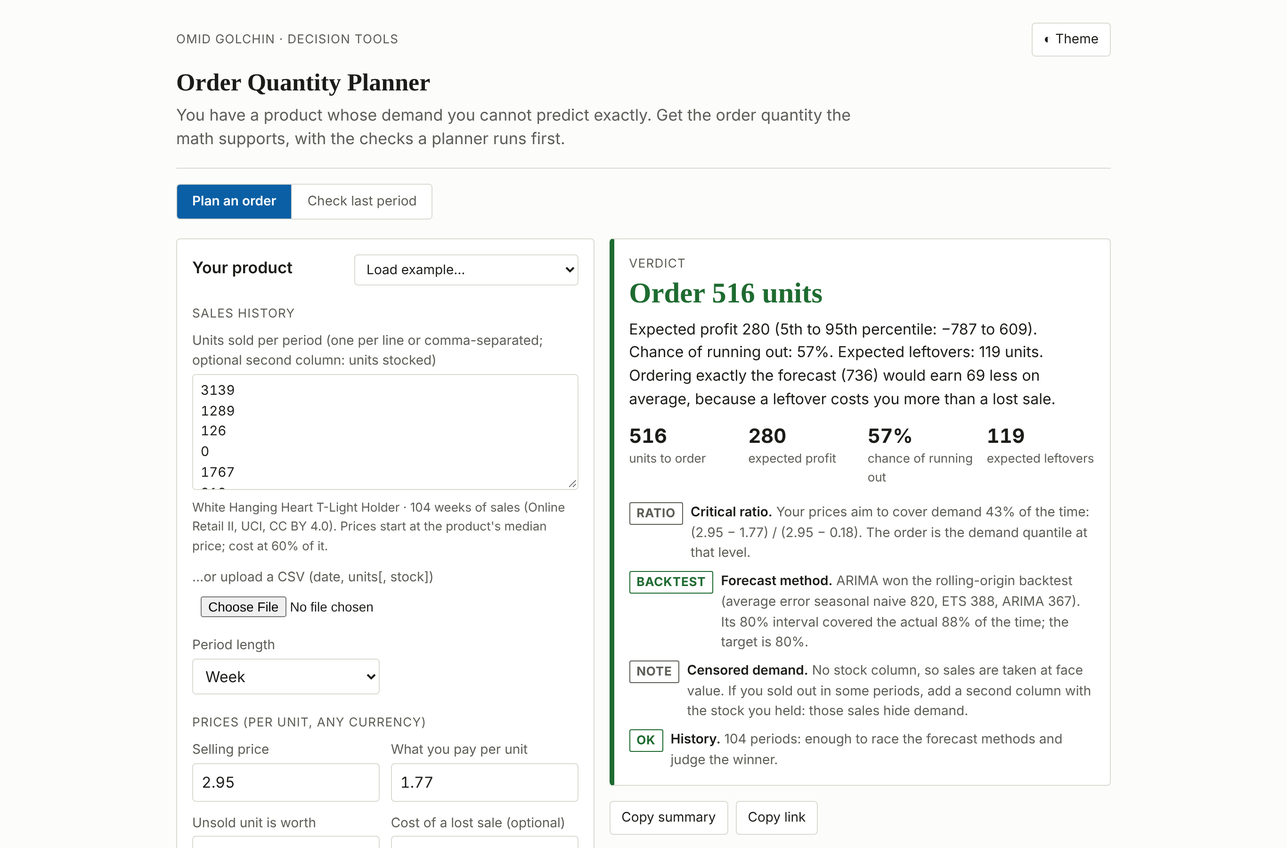
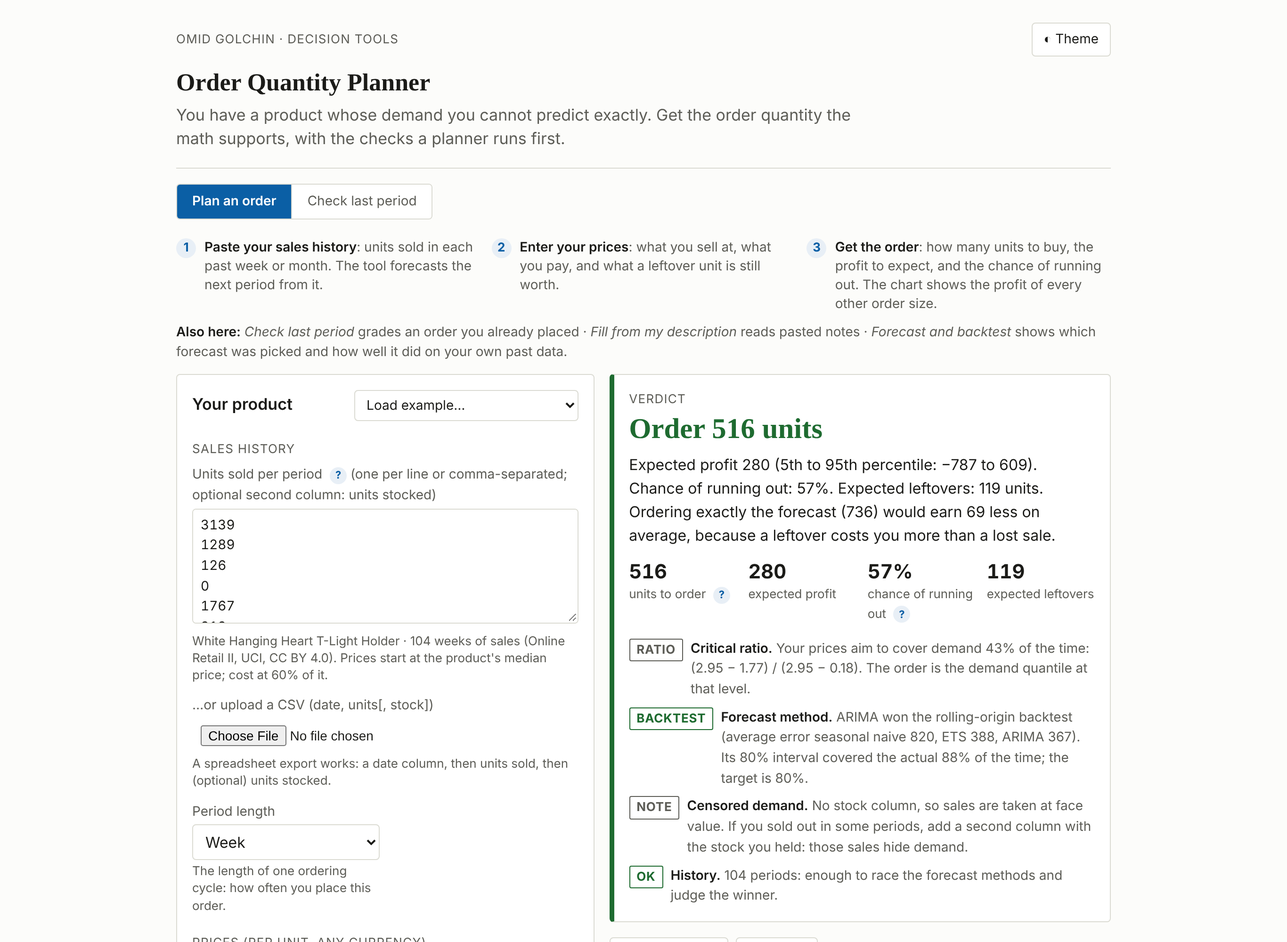
Explain every input and result; shared kit v3
Each mode now opens with a three-step guide, every input has a hint saying what the number is and why it matters, and technical terms in inputs and results have a ? that opens a plain-language explanation. Kit v3: explanations, arrow-key tabs, aligned input columns, slanted category labels on crowded charts, one shared list of tools in the footer. README, hero GIF and screenshots match the page.

Changed region(s): [[0.1245, 0.0311, 0.84, 1.0], [0.8089, 0.0311, 0.8712, 0.0622]]

diff --git a/docs/tool-common.js b/docs/tool-common.js
@@ -1,4 +1,4 @@
-/* omid-tools-kit / tool-common.js: helpers shared by every tool (v2).
+/* omid-tools-kit / tool-common.js: helpers shared by every tool (v3).
  *
  *   Tool.readParams(defaults)      inputs from the URL query, typed like defaults
  *   Tool.writeParams(obj)          inputs into the URL (replaceState, no reload)
@@ -6,6 +6,9 @@
  *   Tool.fmt.*                     number formatting
  *   Tool.lineChart(el, spec)       a small, dependency-free SVG line chart
  *   Tool.assist(config)            the "Fill from description" AI assist
+ *   Tool.explain(glossary)         "?" buttons that open a plain-language explanation
+ *   Tool.siblings(currentRepo)     the "More tools" footer line, from one shared list
+ *   Tool.tabs(tablist)             arrow-key support for a mode switch
  *
  * No dependencies. Works from file:// and on GitHub Pages.
  */
@@ -132,6 +135,14 @@
     var yMax = spec.yMax != null ? spec.yMax : Math.max.apply(null, ys);
     if (yMax === yMin) { yMax += 1; yMin -= 1; }
     if (spec.yMax == null) yMax += (yMax - yMin) * 0.06;
+    // category labels that do not fit side by side are slanted, with room made below
+    var slant = false;
+    if (spec.xTicks && spec.xFormat && spec.xTicks.length > 1) {
+      var maxLen = 0;
+      spec.xTicks.forEach(function (v) { maxLen = Math.max(maxLen, String(spec.xFormat(v)).length); });
+      var room = (W - m.l - m.r) / spec.xTicks.length;
+      if (maxLen * 6.3 > room - 6) { slant = true; m.b += Math.min(78, maxLen * 4.4); }
+    }
     var X = function (v) { return m.l + (v - xMin) / (xMax - xMin || 1) * (W - m.l - m.r); };
     var Y = function (v) { return H - m.b - (v - yMin) / (yMax - yMin) * (H - m.t - m.b); };
     var svg = el("svg", { viewBox: "0 0 " + W + " " + H, role: "img", "aria-label": spec.aria || spec.yTitle || "chart" }, host);
@@ -148,7 +159,9 @@
     xt.forEach(function (v) {
       if (v < xMin - 1e-12 || v > xMax + 1e-12) return;
       el("line", { x1: X(v), x2: X(v), y1: H - m.b, y2: H - m.b + 4, stroke: muted }, svg);
-      var t = el("text", { x: X(v), y: H - m.b + 17, "text-anchor": "middle" }, svg); t.textContent = xFmt(v);
+      var t = slant ? el("text", { x: X(v) + 4, y: H - m.b + 13, "text-anchor": "end", transform: "rotate(-38 " + (X(v) + 4) + " " + (H - m.b + 13) + ")" }, svg)
+        : el("text", { x: X(v), y: H - m.b + 17, "text-anchor": "middle" }, svg);
+      t.textContent = xFmt(v);
     });
     el("line", { x1: m.l, x2: W - m.r, y1: H - m.b, y2: H - m.b, stroke: muted }, svg);
     if (spec.xTitle) { var xtT = el("text", { x: (m.l + W - m.r) / 2, y: H - 6, "text-anchor": "middle", class: "title" }, svg); xtT.textContent = spec.xTitle; }
@@ -390,7 +403,144 @@
     return { buildPrompt: function (t) { return buildPrompt(cfg, t); }, parseReply: parseReply };
   }
 
-  var api = { readParams: readParams, writeParams: writeParams, copy: copy, fmt: fmt, lineChart: lineChart, niceTicks: niceTicks, assist: assist, _buildPrompt: buildPrompt, _parseReply: parseReply, _quoteFound: quoteFound, _coerce: coerce };
+
+  /* ---------------- explanations ("?" buttons) ----------------
+   * Markup: <button type="button" class="tip" data-tip="key">?</button>
+   * placed next to a label or result. glossary[key] = { t: "Term", d: "Plain explanation" }.
+   * The explanation opens as a small card under the button; Esc, a click
+   * elsewhere, or switching modes closes it. No layout shift: the card floats.
+   */
+  var tipCard = null, tipOwner = null;
+  function closeTip() {
+    if (tipCard) { tipCard.remove(); tipCard = null; }
+    if (tipOwner) { tipOwner.setAttribute("aria-expanded", "false"); tipOwner = null; }
+  }
+  function placeTip(btn) {
+    if (!tipCard) return;
+    var r = btn.getBoundingClientRect(), vw = document.documentElement.clientWidth;
+    var w = Math.min(340, vw - 24);
+    tipCard.style.width = w + "px";
+    var left = Math.max(12, Math.min(r.left + r.width / 2 - w / 2, vw - w - 12));
+    tipCard.style.left = (left + window.scrollX) + "px";
+    tipCard.style.top = (r.bottom + window.scrollY + 6) + "px";
+  }
+  var GLOSS = {};
+  function decorate(root) {
+    (root.querySelectorAll ? root : document).querySelectorAll("[data-tip]:not(.tip)").forEach(function (btn) {
+      var g = GLOSS[btn.getAttribute("data-tip")];
+      if (!g) return;
+      btn.classList.add("tip");
+      if (btn.tagName === "BUTTON") btn.type = "button";
+      if (!btn.textContent.trim()) btn.textContent = "?";
+      btn.setAttribute("aria-label", "What is " + g.t.replace(/[.?:]$/, "") + "?");
+      btn.setAttribute("aria-expanded", "false");
+      // keep the "?" on the same line as the last word before it
+      var prev = btn.previousSibling;
+      if (prev && prev.nodeType === 3 && /\S/.test(prev.nodeValue) && !(btn.parentNode.classList && btn.parentNode.classList.contains("nowrap"))) {
+        var m = prev.nodeValue.match(/^([\s\S]*?)(\S+)(\s*)$/);
+        if (m) {
+          prev.nodeValue = m[1];
+          var span = document.createElement("span"); span.className = "nowrap";
+          span.appendChild(document.createTextNode(m[2] + (m[3] ? "\u00a0" : "")));
+          btn.parentNode.insertBefore(span, btn); span.appendChild(btn);
+        }
+      }
+    });
+  }
+  /* Align labels, inputs and hints across the two input columns (CSS subgrid). */
+  function alignFields(root) {
+    if (typeof CSS === "undefined" || !CSS.supports || !CSS.supports("grid-template-rows", "subgrid")) return;
+    (root || document).querySelectorAll(".fields").forEach(function (grid) {
+      grid.classList.add("sg-on");
+      Array.prototype.forEach.call(grid.children, function (f) {
+        if (!f.classList.contains("field") || f.classList.contains("full") || f.classList.contains("sg")) return;
+        var kids = Array.prototype.slice.call(f.children);
+        if (!kids.length || kids[0].tagName !== "LABEL" || kids.length < 2) return;
+        var after = document.createElement("div"); after.className = "field-after";
+        kids.slice(2).forEach(function (k) { after.appendChild(k); });
+        f.appendChild(after); f.classList.add("sg");
+      });
+    });
+  }
+  function explain(glossary) {
+    Object.keys(glossary || {}).forEach(function (k) { GLOSS[k] = glossary[k]; });
+    decorate(document);
+    if (explain._wired) return;
+    explain._wired = true;
+    new MutationObserver(function (ms) { ms.forEach(function (m) { m.addedNodes.forEach(function (n) { if (n.nodeType === 1) { if (n.hasAttribute("data-tip")) decorate(n.parentNode || document); else decorate(n); } }); }); })
+      .observe(document.body, { childList: true, subtree: true });
+    document.addEventListener("click", function (e) {
+      var btn = e.target.closest ? e.target.closest("[data-tip]") : null;
+      if (btn && GLOSS[btn.getAttribute("data-tip")]) {
+        e.preventDefault();
+        var same = tipOwner === btn; closeTip(); if (same) return;
+        var g = GLOSS[btn.getAttribute("data-tip")];
+        tipCard = document.createElement("div");
+        tipCard.className = "tip-card"; tipCard.setAttribute("role", "note");
+        tipCard.id = "tipc-" + Math.random().toString(36).slice(2, 8);
+        btn.setAttribute("aria-describedby", tipCard.id);
+        tipCard.innerHTML = '<p class="tip-t">' + esc(g.t) + '</p><p class="tip-d">' + g.d + "</p>";
+        document.body.appendChild(tipCard);
+        tipOwner = btn; btn.setAttribute("aria-expanded", "true"); placeTip(btn);
+        return;
+      }
+      if (tipCard && !tipCard.contains(e.target)) closeTip();
+    });
+    document.addEventListener("keydown", function (e) { if (e.key === "Escape" && tipCard) { var o = tipOwner; closeTip(); if (o) o.focus(); } });
+    window.addEventListener("resize", function () { if (tipOwner) placeTip(tipOwner); });
+  }
+
+  /* ---------------- the shared tool list ---------------- */
+  var TOOLS = [
+    ["bayesian-ab-lab", "A/B Test Decision Tool"],
+    ["queue-simulator", "Call Center Staffing Planner"],
+    ["experiment-hazard-simulator", "Agent Eval Planner"],
+    ["llm-eval-error-bar", "Error Bars for LLM Evals"],
+    ["ordering-policy-tester", "Ordering Policy Tester"],
+    ["order-quantity-planner", "Order Quantity Planner"],
+    ["production-line-simulator", "Production Line Bottleneck Finder"],
+    ["persuasion-checker", "Which Draft Persuades?"],
+    ["gpu-budget-planner", "GPU Budget Planner"]
+  ];
+  function siblings(current) {
+    var host = document.querySelector(".kit-siblings");
+    if (!host) return;
+    host.innerHTML = '<span class="kit-siblings-label">More tools:</span> ' + TOOLS.map(function (t) {
+      return t[0] === current ? '<a href="https://omidgolchin.github.io/' + t[0] + '/" aria-current="page">' + t[1] + "</a>"
+        : '<a href="https://omidgolchin.github.io/' + t[0] + '/">' + t[1] + "</a>";
+    }).join(" · ");
+  }
+
+  /* ---------------- tabs: arrow keys, panels ---------------- */
+  function tabs(list) {
+    list = list || document.querySelector("[role=tablist]");
+    if (!list) return;
+    var items = Array.prototype.slice.call(list.querySelectorAll("[role=tab]"));
+    items.forEach(function (t) {
+      t.addEventListener("click", function () { closeTip(); });
+      t.addEventListener("keydown", function (e) {
+        var i = items.indexOf(t), j = -1;
+        if (e.key === "ArrowRight") j = (i + 1) % items.length;
+        else if (e.key === "ArrowLeft") j = (i - 1 + items.length) % items.length;
+        else if (e.key === "Home") j = 0; else if (e.key === "End") j = items.length - 1;
+        if (j < 0) return;
+        e.preventDefault(); items[j].focus(); items[j].click();
+      });
+    });
+    var sync = function () { items.forEach(function (t) { t.tabIndex = t.getAttribute("aria-selected") === "true" ? 0 : -1; }); };
+    sync(); new MutationObserver(sync).observe(list, { subtree: true, attributes: true, attributeFilter: ["aria-selected"] });
+  }
+
+  if (typeof document !== "undefined") {
+    document.addEventListener("DOMContentLoaded", function () {
+      var m = location.pathname.match(/\/([^\/]+)\/(?:docs\/)?(?:index\.html)?$/);
+      siblings(m ? m[1] : "");
+      tabs();
+      alignFields();
+    });
+  }
+
+  var api = { explain: explain, alignFields: alignFields, closeTip: closeTip, siblings: siblings, tabs: tabs, TOOLS: TOOLS, readParams: readParams, writeParams: writeParams, copy: copy, fmt: fmt, lineChart: lineChart, niceTicks: niceTicks, assist: assist, _buildPrompt: buildPrompt, _parseReply: parseReply, _quoteFound: quoteFound, _coerce: coerce };
   if (typeof module !== "undefined" && module.exports) module.exports = api;
   if (typeof window !== "undefined") window.Tool = api;
 })();

diff --git a/docs/index.html b/docs/index.html
@@ -24,13 +24,21 @@
     <p class="kit-tagline">You have a product whose demand you cannot predict exactly. Get the order quantity the math supports, with the checks a planner runs first.</p>
   </header>
 
-  <div class="tool-modes" role="tablist" aria-label="Mode">
+  <div class="tool-modes" role="tablist" aria-label="What do you want to do?">
     <button type="button" role="tab" id="tab-plan" class="active" aria-selected="true">Plan an order</button>
     <button type="button" role="tab" id="tab-check" aria-selected="false">Check last period</button>
   </div>
 
   <!-- ================= PLAN ================= -->
-  <section id="view-plan">
+  <section id="view-plan" role="tabpanel" aria-labelledby="tab-plan">
+    <div class="guide" aria-label="How to use this mode">
+      <ol class="steps">
+        <li><b>Paste your sales history</b>: units sold in each past week or month. The tool forecasts the next period from it.</li>
+        <li><b>Enter your prices</b>: what you sell at, what you pay, and what a leftover unit is still worth.</li>
+        <li><b>Get the order</b>: how many units to buy, the profit to expect, and the chance of running out. The chart shows the profit of every other order size.</li>
+      </ol>
+      <p class="also"><b>Also here:</b> <i>Check last period</i> grades an order you already placed · <i>Fill from my description</i> reads pasted notes · <i>Forecast and backtest</i> shows which forecast was picked and how well it did on your own past data.</p>
+    </div>
     <div class="work">
       <form class="panel" id="f-plan" novalidate onsubmit="return false">
         <div class="panel-head">
@@ -41,18 +49,18 @@
         </div>
         <div class="fields">
           <div class="group-label">Sales history</div>
-          <div class="field full"><label for="history">Units sold per period <span class="muted">(one per line or comma-separated; optional second column: units stocked)</span></label>
+          <div class="field full"><label for="history">Units sold per period <button type="button" data-tip="demand"></button> <span class="muted">(one per line or comma-separated; optional second column: units stocked)</span></label>
             <textarea id="history" rows="5" spellcheck="false"></textarea>
-            <div class="hint" id="historyHint"></div></div>
+            <div class="hint" id="historyHint">Most recent last. At least 8 periods; a year or more lets the tool find seasonality. If you sold out in some periods, add the units you had in a second column so those periods count as "at least" that many.</div></div>
           <div class="field full"><label for="csvFile">…or upload a CSV <span class="muted">(date, units[, stock])</span></label>
-            <input id="csvFile" type="file" accept=".csv,text/csv"></div>
+            <input id="csvFile" type="file" accept=".csv,text/csv"><div class="hint">A spreadsheet export works: a date column, then units sold, then (optional) units stocked.</div></div>
           <div class="field"><label for="period">Period length</label>
-            <select id="period"><option value="week">Week</option><option value="month">Month</option></select></div>
+            <select id="period"><option value="week">Week</option><option value="month">Month</option></select><div class="hint">The length of one ordering cycle: how often you place this order.</div></div>
           <div class="group-label">Prices (per unit, any currency)</div>
-          <div class="field"><label for="price">Selling price</label><input id="price" type="number" min="0" step="any" inputmode="decimal"></div>
-          <div class="field"><label for="cost">What you pay per unit</label><input id="cost" type="number" min="0" step="any" inputmode="decimal"></div>
-          <div class="field"><label for="salvage">Unsold unit is worth</label><input id="salvage" type="number" min="0" step="any" inputmode="decimal"><div class="hint">Clearance, outlet, or 0 if it is thrown away. If leftovers keep for next period, use what they are worth then: about the unit cost less what holding them costs.</div></div>
-          <div class="field"><label for="goodwill">Cost of a lost sale <span class="muted">(optional)</span></label><input id="goodwill" type="number" min="0" step="any" inputmode="decimal" placeholder="0"><div class="hint">Beyond the lost margin: annoyed customers, penalties.</div></div>
+          <div class="field"><label for="price">Selling price</label><input id="price" type="number" min="0" step="any" inputmode="decimal"><div class="hint">What a customer pays for one unit.</div></div>
+          <div class="field"><label for="cost">What you pay per unit</label><input id="cost" type="number" min="0" step="any" inputmode="decimal"><div class="hint">Your purchase or production cost for one unit.</div></div>
+          <div class="field"><label for="salvage">Unsold unit is worth <button type="button" data-tip="salvage"></button></label><input id="salvage" type="number" min="0" step="any" inputmode="decimal"><div class="hint">Clearance, outlet, or 0 if it is thrown away. If leftovers keep for next period, use what they are worth then: about the unit cost less what holding them costs.</div></div>
+          <div class="field"><label for="goodwill">Cost of a lost sale <button type="button" data-tip="goodwill"></button> <span class="muted">(optional)</span></label><input id="goodwill" type="number" min="0" step="any" inputmode="decimal" placeholder="0"><div class="hint">Beyond the lost margin: annoyed customers, penalties.</div></div>
         </div>
         <div class="actions" style="margin-top:12px">
           <button type="button" id="assistToggle">✦ Fill from my notes</button>
@@ -78,7 +86,7 @@
     </div>
 
     <section class="panel" style="margin-top:16px">
-      <h2>What each order quantity earns</h2>
+      <h2>What each order quantity earns <button type="button" data-tip="curve"></button></h2>
       <div class="svgchart" id="profitChart"></div>
       <p class="chart-caption" id="profitCaption"></p>
     </section>
@@ -115,14 +123,21 @@ order = smallest Q with P(demand ≤ Q) ≥ critical ratio</div>
   </section>
 
   <!-- ================= CHECK ================= -->
-  <section id="view-check" hidden>
+  <section id="view-check" role="tabpanel" aria-labelledby="tab-check" hidden>
+    <div class="guide" aria-label="How to use this mode">
+      <ol class="steps">
+        <li><b>Enter what you ordered and sold</b> last period, and whether you ran out.</li>
+        <li><b>The tool replays the decision</b> with the product and prices from <i>Plan an order</i>.</li>
+        <li><b>Read the grade</b>: whether the order was sound given what you knew, and how much it cost compared with the plan.</li>
+      </ol>
+    </div>
     <div class="work">
       <form class="panel" id="f-check" novalidate onsubmit="return false">
         <div class="panel-head"><h2>Last period</h2></div>
         <div class="fields">
-          <div class="field"><label for="cOrdered">Units you ordered</label><div class="input-wrap"><input id="cOrdered" type="number" min="0" step="1" inputmode="numeric"><span class="unit">units</span></div></div>
-          <div class="field"><label for="cSold">Units you sold</label><div class="input-wrap"><input id="cSold" type="number" min="0" step="1" inputmode="numeric"><span class="unit">units</span></div></div>
-          <div class="field"><label for="cRanOut">Did you run out?</label>
+          <div class="field"><label for="cOrdered">Units you ordered</label><div class="input-wrap"><input id="cOrdered" type="number" min="0" step="1" inputmode="numeric"><span class="unit">units</span></div><div class="hint">Units you bought for that period.</div></div>
+          <div class="field"><label for="cSold">Units you sold</label><div class="input-wrap"><input id="cSold" type="number" min="0" step="1" inputmode="numeric"><span class="unit">units</span></div><div class="hint">Units actually sold. If you sold out, this equals what you ordered.</div></div>
+          <div class="field"><label for="cRanOut">Did you run out? <button type="button" data-tip="censored"></button></label>
             <select id="cRanOut"><option value="no">No, some were left</option><option value="yes">Yes, we sold out</option></select>
             <div class="hint">Uses the product, prices and forecast from <b>Plan an order</b>.</div></div>
         </div>
@@ -151,11 +166,7 @@ order = smallest Q with P(demand ≤ Q) ≥ critical ratio</div>
   </section>
 
   <footer class="kit-footer">
-    <p class="kit-siblings"><span class="kit-siblings-label">More tools:</span>
-      <a href="https://omidgolchin.github.io/bayesian-ab-lab/">A/B Test Decision Tool</a> ·
-      <a href="https://omidgolchin.github.io/queue-simulator/">Call Center Staffing Planner</a> ·
-      <a href="https://omidgolchin.github.io/experiment-hazard-simulator/">Agent Eval Planner</a> ·
-      <a href="https://omidgolchin.github.io/order-quantity-planner/" aria-current="page">Order Quantity Planner</a></p>
+    <p class="kit-siblings"></p>
     <p>Built by Omid Golchin · <a href="https://github.com/omidgolchin/order-quantity-planner">Code, tests and design decisions</a> · Everything runs in your browser; nothing you type is sent anywhere unless you use the AI fill with your own key.</p>
   </footer>
 </main>

diff --git a/docs/app.js b/docs/app.js
@@ -164,11 +164,11 @@
     $("verdict").className = "panel verdict v-" + cls;
     cur.title = title; cur.body = body;
     $("kpis").innerHTML = [
-      [F.int(plan.order), "units to order"],
+      [F.int(plan.order), "units to order", "cr"],
       [money(plan.expProfit), "expected profit"],
-      [F.pct(plan.stockoutProb, 0), "chance of running out"],
+      [F.pct(plan.stockoutProb, 0), "chance of running out", "stockout"],
       [F.num(plan.expLeftovers, 0), "expected leftovers"]
-    ].map(function (it) { return '<div class="kpi"><span class="k-val">' + it[0] + '</span><span class="k-lbl">' + it[1] + "</span></div>"; }).join("");
+    ].map(function (it) { return '<div class="kpi"><span class="k-val">' + it[0] + '</span><span class="k-lbl">' + it[1] + (it[2] ? ' <button type="button" data-tip="' + it[2] + '"></button>' : "") + "</span></div>"; }).join("");
   }
 
   function renderChecks() {
@@ -322,8 +322,8 @@
       [F.int(r.planOrder), "plan's order"],
       [F.int(ordered), "your order"],
       [money(r.realizedProfit), "your realized profit"],
-      [money(Math.max(0, gap)), "expected gap to the plan"]
-    ].map(function (it) { return '<div class="kpi"><span class="k-val">' + it[0] + '</span><span class="k-lbl">' + it[1] + "</span></div>"; }).join("");
+      [money(Math.max(0, gap)), "expected gap to the plan", "gap"]
+    ].map(function (it) { return '<div class="kpi"><span class="k-val">' + it[0] + '</span><span class="k-lbl">' + it[1] + (it[2] ? ' <button type="button" data-tip="' + it[2] + '"></button>' : "") + "</span></div>"; }).join("");
     var cks = [];
     cks.push(ranOut
       ? ["warn", "SOLD OUT", "Censored demand", "You ran out, so this period's sales hide its demand. In Plan an order, a stock column would uncensor periods like this one."]
@@ -482,6 +482,17 @@
     if (state.cOrdered !== "") $("cOrdered").value = state.cOrdered;
     if (state.cSold !== "") $("cSold").value = state.cSold;
     if (state.cRanOut) $("cRanOut").value = state.cRanOut;
+    Tool.explain({
+      demand: { t: "Why the sales history matters", d: "The right order depends on the whole spread of possible demand, not just the average. The tool fits several forecasts to your history, keeps the one that predicted your own past periods best (a backtest), and uses its errors to estimate how uncertain next period is." },
+      salvage: { t: "Salvage value", d: "What an unsold unit is worth at the end of the period: clearance price, outlet value, or 0 if it is thrown away. High salvage makes overstocking cheap, so the tool orders more." },
+      goodwill: { t: "Cost of a lost sale", d: "Anything you lose beyond the margin when a customer finds you sold out, such as a customer who does not come back. It makes running out more expensive, so the tool orders more. Leave it at 0 if you are unsure." },
+      cr: { t: "How the order size is chosen", d: "This is the newsvendor problem. Order until one more unit is as likely to lose money as to make it. That happens at the <i>critical ratio</i>: underage cost ÷ (underage + overage), where underage = price − cost (+ lost-sale cost) and overage = cost − salvage. The order is the demand level with that probability of not being exceeded." },
+      stockout: { t: "Chance of running out", d: "The probability that demand next period exceeds the order. Ordering for zero stockouts is almost never profitable; the right level depends on your margins." },
+      gap: { t: "Gap to the plan", d: "How much more profit the plan's order would have earned on average than your order, given what was known before the period. It grades the decision, not the luck of one period." },
+      censored: { t: "Sold-out periods", d: "When you sell out, true demand was at least what you sold, maybe more. Treating that period as exact demand underestimates demand and leads to ordering too little next time. The tool treats sold-out periods as 'at least'." },
+      curve: { t: "Profit by order size", d: "For every order size, the average profit over thousands of simulated demand draws from the forecast. The peak is the best order. A flat top means you have room; a steep side shows which mistake (too few or too many) costs more." }
+    });
+
     setMode(state.mode === "check" ? "check" : "plan");
   })();
 })();

diff --git a/docs/tool.css b/docs/tool.css
@@ -1,5 +1,5 @@
 [hidden] { display: none !important; }
-/* omid-tools-kit / tool.css: the layout shared by every tool (v2).
+/* omid-tools-kit / tool.css: the layout shared by every tool (v3).
  *
  * Loads after kit.css. Adds the tool page pattern:
  *   header, mode switch, [inputs | verdict] two-column work area,
@@ -103,3 +103,38 @@ select.example { font-size: var(--fs-small); }
 
 .footnote { font-size: var(--fs-caption); color: var(--muted); }
 .page-sub { color: var(--muted); font-size: var(--fs-lede); max-width: 70ch; margin: var(--sp-2) 0 0; }
+
+/* ---- v3: how-to guide, explanations, phone fixes ---- */
+.guide { margin: var(--sp-3) 0 0; }
+.guide .steps { list-style: none; counter-reset: step; display: grid; grid-template-columns: repeat(3, minmax(0, 1fr)); gap: var(--sp-3); margin: 0; padding: 0; }
+.guide .steps li { counter-increment: step; position: relative; padding-left: 30px; font-size: var(--fs-small); color: var(--muted); line-height: 1.45; }
+.guide .steps li::before { content: counter(step); position: absolute; left: 0; top: 0; width: 21px; height: 21px; border-radius: 50%; background: var(--accent-soft); color: var(--accent); font-weight: 700; font-size: var(--fs-caption); display: flex; align-items: center; justify-content: center; }
+.guide .steps b { color: var(--fg); font-weight: 600; }
+.guide .also { font-size: var(--fs-small); color: var(--muted); margin: var(--sp-2) 0 0; }
+.guide .also b { color: var(--fg); font-weight: 600; }
+@media (max-width: 720px) { .guide .steps { grid-template-columns: minmax(0, 1fr); gap: var(--sp-2); } }
+
+.tip { display: inline-flex; align-items: center; justify-content: center; width: 18px; height: 18px; min-width: 18px; padding: 0; margin-left: 4px; border-radius: 50%; font-size: 11px; font-weight: 700; line-height: 1; color: var(--accent); background: var(--accent-soft); border: 1px solid transparent; vertical-align: 1px; position: relative; }
+.tip::after { content: ""; position: absolute; inset: -8px; }  /* bigger touch target, same look */
+.tip:hover, .tip[aria-expanded="true"] { border-color: var(--accent); }
+.tip-card { position: absolute; z-index: 50; background: var(--card); color: var(--fg); border: 1px solid var(--border); border-radius: var(--radius); box-shadow: 0 6px 24px rgba(0,0,0,.14); padding: var(--sp-3); }
+.tip-card .tip-t { font-weight: 600; margin: 0 0 4px; font-size: var(--fs-small); }
+.tip-card .tip-d { margin: 0; font-size: var(--fs-small); line-height: 1.5; color: var(--muted); }
+.field label .tip, .kpi .tip, h2 .tip, h3 .tip, legend .tip, th .tip { vertical-align: 0; }
+
+.field .hint { line-height: 1.4; }
+[role=tabpanel]:focus { outline: none; }
+@media (max-width: 600px) {
+  .formula { white-space: pre-wrap; word-break: break-word; }
+  .tool-modes { display: flex; width: 100%; }
+  .tool-modes button { flex: 1 1 0; padding: 9px 8px; }
+  .actions button { min-height: 36px; }
+}
+.nowrap { white-space: nowrap; }
+.fields.sg-on { row-gap: 0; }
+.fields.sg-on > .field.sg { display: grid; grid-row: span 4; grid-template-rows: subgrid; grid-template-columns: minmax(0, 1fr); row-gap: 0; min-width: 0; }
+.fields.sg-on > .field.sg > label { align-self: end; }
+.fields.sg-on > .field.sg::after { content: ""; height: var(--sp-3); }
+.fields.sg-on > :not(.sg) { margin-bottom: var(--sp-3); }
+.fields.sg-on > .group-label { margin: var(--sp-2) 0 6px; }
+.field-after:empty { display: none; }

diff --git a/README.md b/README.md
@@ -2,9 +2,9 @@
 
 A planner that turns a product's sales history into an order quantity: the newsvendor optimum for your price, cost and salvage, with the demand forecast chosen by backtest on the product's own history, and the risk of the order shown next to the number.
 
-![The planner recommending an order, with the profit curve and the verdict checks](docs/hero.gif)
+![The planner on three products (a steady seller, a seasonal product, a shop that sold out most weeks), how the order size is chosen, and the check of last period's order](docs/hero.gif)
 
-![Desktop view of the Order Quantity Planner](docs/screenshots/desktop.png)
+![The planner on a desktop: the three-step guide, the inputs with a hint under each, and the recommended order](docs/screenshots/desktop.png)
 
 **Use it:** https://omidgolchin.github.io/order-quantity-planner/ (runs in your browser; nothing you type leaves it)
 
@@ -33,6 +33,7 @@ Two modes:
 - **Check last period** — enter what you ordered and sold; the planner
   grades it against the plan for the same demand, in expectation, so
   one lucky or unlucky period is not mistaken for a good or bad order.
+- **Help where you need it.** Each mode opens with three steps saying what to enter and what you get; every input has a line under it saying what the number is, why it matters and where to find it; and every technical term in the inputs and results has a **?** that opens a plain-language explanation.
 
 Built-in examples come from the Online Retail II dataset (UCI, CC BY
 4.0; see DATA_SOURCES.md): a steady seller, a strongly seasonal
